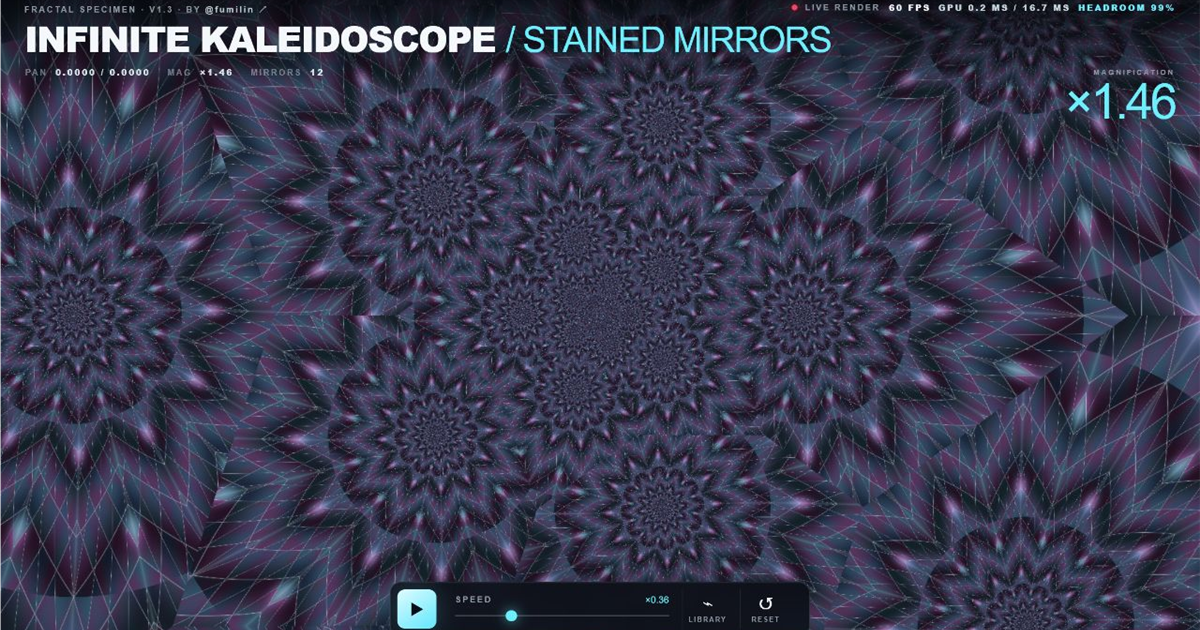
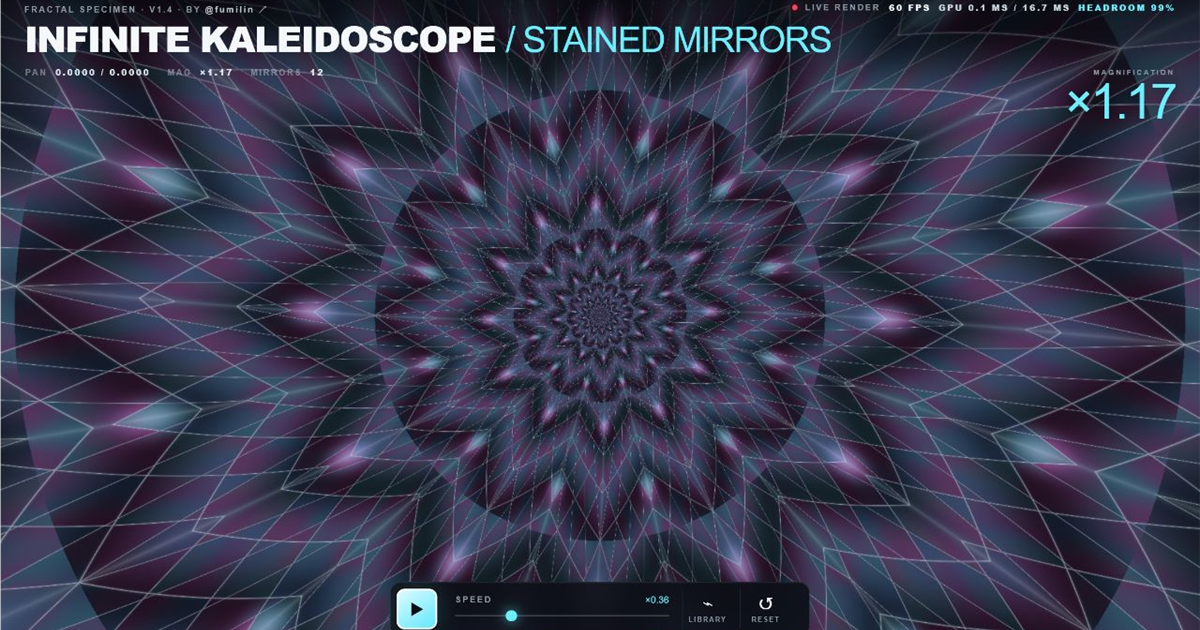
mandelbulb: 初期表示を単一中心の万華鏡へ戻す
複数特異点を初期値にしたことで、万華鏡よりも複眼や胞子に近い生物的な印象が強くなっていた。CENTERSの既定値を0へ戻し、起動時は中央1点のステンドグラス模様を表示する。

複数特異点とRAINBOWは任意のパラメータとして残し、説明文で初期値と追加方法を明示した。版とキャッシュキーをv1.4へ更新し、単一中心の標準ビューでOG画像を撮り直した。

検証: node --check mandelbulb/app.js、git diff --check、実ブラウザで初期CENTERS=0、CENTERS=5への変更、RAINBOW選択、60 FPS・WebGLエラーなしを確認。

diff --git a/mandelbulb/app.js b/mandelbulb/app.js
@@ -693,11 +693,11 @@ void main() {
       { key: "cReal", label: "C · REAL", description: "固定するcの実部", min: -1.5, max: 1.5, step: 0.00001, value: -0.4, digits: 5, signed: true },
       { key: "cImag", label: "C · IMAGINARY", description: "固定するcの虚部", min: -1.5, max: 1.5, step: 0.00001, value: -0.59, digits: 5, signed: true }
     ] },
-    { title: "INFINITE KALEIDOSCOPE", subtitle: "/ STAINED MIRRORS", dimension: "2D", orbit: [0, 0], pan: [0, 0], formula: "", explanation: "中心と、その周囲へ対数周期で並ぶ複数の特異点から色ガラスを鏡映します。どの特異点へ寄っても新しい破片が現れ続ける無限ズーム万華鏡です。", note: "CENTERSとSPREADで追加の特異点を配置できます。RAINBOWでは面ごとに連続した多色ガラスへ切り替わります。", parameters: [
+    { title: "INFINITE KALEIDOSCOPE", subtitle: "/ STAINED MIRRORS", dimension: "2D", orbit: [0, 0], pan: [0, 0], formula: "", explanation: "中心の特異点から色ガラスを鏡映する無限ズーム万華鏡です。CENTERSを増やすと、周囲の各ズーム階層にも潜り込める特異点を追加できます。", note: "初期値は中央1点。CENTERSとSPREADで追加特異点を配置でき、RAINBOWでは面ごとの多色ガラスへ切り替わります。", parameters: [
       { key: "mirrors", label: "MIRRORS", description: "放射対称の枚数", min: 4, max: 32, step: 1, value: 12, digits: 0 },
       { key: "zoomPeriod", label: "ZOOM PERIOD", description: "ガラス模様が戻る倍率", min: 1.35, max: 5, step: 0.05, value: 2.6, digits: 2, suffix: "×" },
       { key: "twist", label: "TWIST", description: "階層ごとの回転", min: -3, max: 3, step: 0.05, value: 0.05, digits: 2, signed: true },
-      { key: "centers", label: "CENTERS", description: "各階層の追加特異点", min: 0, max: 12, step: 1, value: 5, digits: 0 },
+      { key: "centers", label: "CENTERS", description: "各階層の追加特異点", min: 0, max: 12, step: 1, value: 0, digits: 0 },
       { key: "spread", label: "SPREAD", description: "特異点の広がり", min: 0.2, max: 1.4, step: 0.02, value: 0.72, digits: 2 }
     ] },
     { title: "INFINITE CRYSTAL", subtitle: "/ PRISM TUNNEL", dimension: "2D", orbit: [0, 0], pan: [0, 0], formula: "", explanation: "対数半径と鏡映角を斜めに交差させ、拡大しても終わらない結晶格子を作ります。線の交点が次々に奥へ続く回廊になります。", note: "SIDESで結晶の面数、ZOOM PERIODで階層間隔、SHEARで回廊の傾きを調整できます。", parameters: [

diff --git a/mandelbulb/index.html b/mandelbulb/index.html
@@ -7,17 +7,17 @@
   <meta name="description" content="色ガラスが拡大の奥へ続くリアルタイム無限ズーム万華鏡">
   <meta property="og:title" content="INFINITE KALEIDOSCOPE / STAINED MIRRORS">
   <meta property="og:description" content="鏡映された色ガラスが拡大の奥へ続くリアルタイム無限ズーム万華鏡">
-  <meta property="og:image" content="./og.png?v=1.3">
+  <meta property="og:image" content="./og.png?v=1.4">
   <meta name="twitter:card" content="summary_large_image">
   <title>INFINITE KALEIDOSCOPE / STAINED MIRRORS</title>
-  <link rel="stylesheet" href="./style.css?v=1.3">
+  <link rel="stylesheet" href="./style.css?v=1.4">
 </head>
 <body>
 <main class="app">
   <canvas id="scene" aria-label="リアルタイムで描画される無限ズーム・カレイドスコープ"></canvas>
   <div class="grain" aria-hidden="true"></div>
   <header class="topbar">
-    <div><span class="eyebrow">FRACTAL SPECIMEN · v1.3 · BY <a href="https://x.com/fumilin" target="_blank" rel="me noopener noreferrer">@fumilin ↗</a></span><h1><span id="fractalTitle">INFINITE KALEIDOSCOPE</span> <em id="fractalSubtitle">/ STAINED MIRRORS</em></h1></div>
+    <div><span class="eyebrow">FRACTAL SPECIMEN · v1.4 · BY <a href="https://x.com/fumilin" target="_blank" rel="me noopener noreferrer">@fumilin ↗</a></span><h1><span id="fractalTitle">INFINITE KALEIDOSCOPE</span> <em id="fractalSubtitle">/ STAINED MIRRORS</em></h1></div>
     <div class="readout"><i></i><span id="status">INITIALIZING</span><b id="fps">-- FPS</b><b id="gpu">GPU -- ms / 16.7 ms</b><b id="headroom">HEADROOM --%</b></div>
   </header>
   <section class="coords" aria-hidden="true"><span><i id="axisLabel">PAN</i> <b id="orbitOut">0.0000 / 0.0000</b></span><span>MAG <b id="distOut">×1.00</b></span><span><i id="shapeLabel">MIRRORS</i> <b id="powerOut">12</b></span></section><section class="zoomMeter" aria-live="polite"><span>MAGNIFICATION</span><b id="zoomBadge">×1.00</b></section>
@@ -81,6 +81,6 @@
   </nav>
   <div id="error" class="error" hidden><b>WEBGL2 NOT AVAILABLE</b><p>最新のSafariまたはChromeで開いてください。</p></div>
 </main>
-<script src="./app.js?v=1.3"></script>
+<script src="./app.js?v=1.4"></script>
 </body>
 </html>
